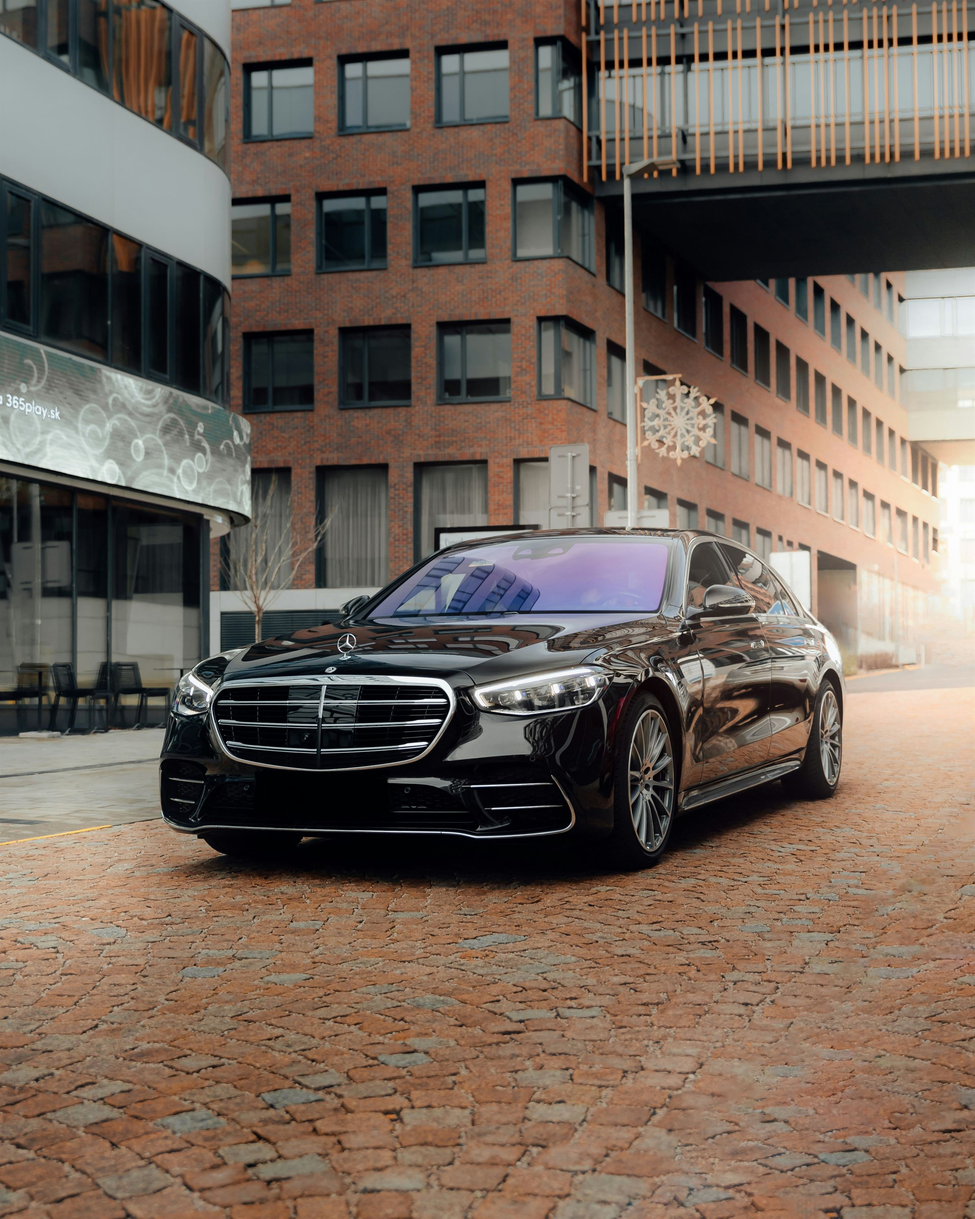
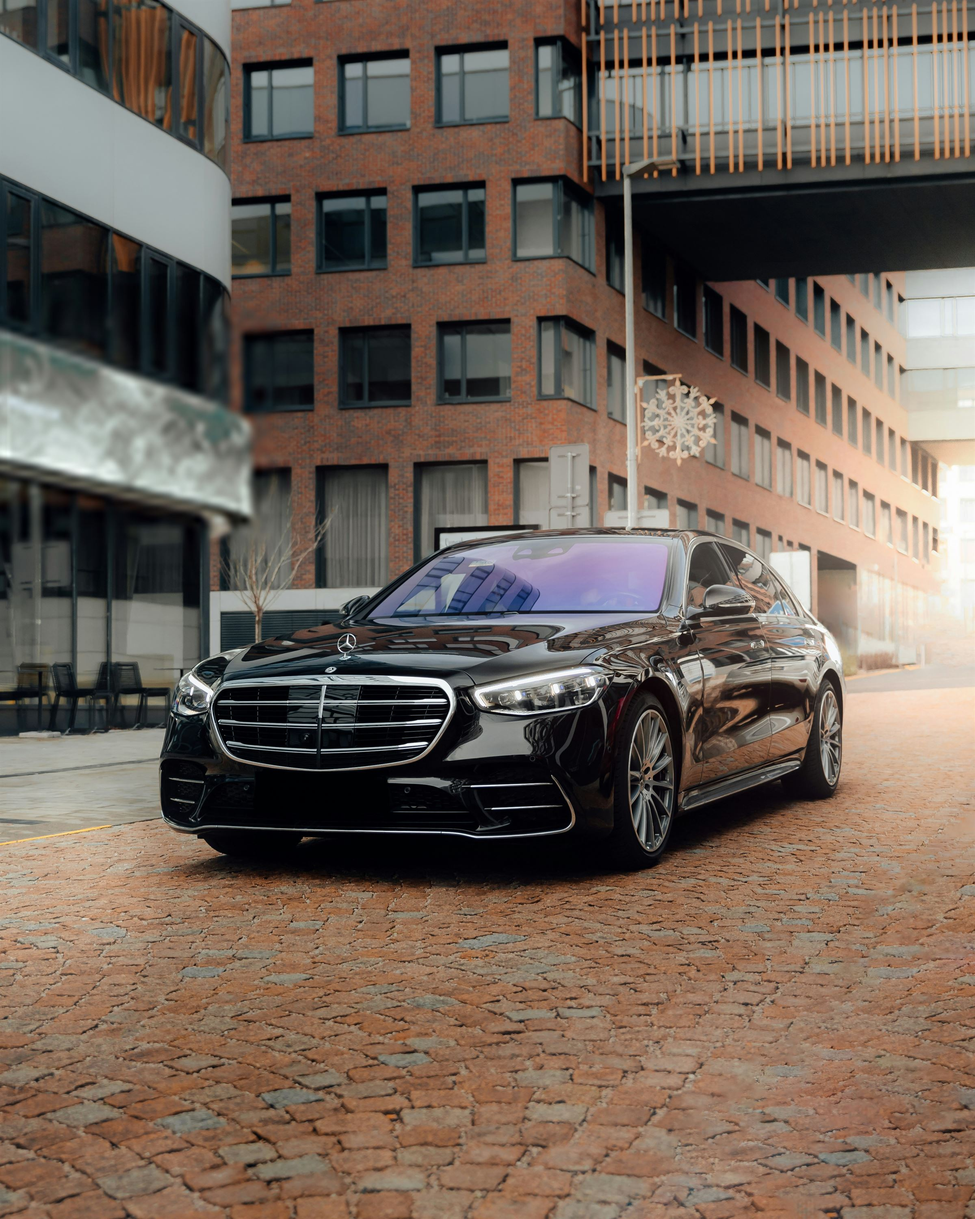
Hero : cadrage de la Classe S identique sur toutes les tailles d'écran, enseigne floutée
- Photo en vraie balise <picture> (WebP + JPEG), object-fit: cover, au lieu du fond CSS
- script.js : décalage vertical calculé selon la taille réelle de la carte, pour que le bas de la voiture arrive vers 97 % de sa hauteur (sur mobile et tablette, léger agrandissement ancré en haut) ; positions CSS de secours sans JavaScript
- Images web : enseigne « 365play.sk » floutée (l'original hero-classe-s.jpg reste intact)
- Contraste AA vérifié sur la photo de 360 à 1920 px

diff --git a/showroom.css b/showroom.css
@@ -680,16 +680,22 @@
   min-height:calc(100vh - 120px);           /* ≈ un écran : la voiture se voit en entier sous la recherche */
   min-height:calc(100svh - 120px);
 }
-.showroom .hero-card::before{
-  content:'';position:absolute;inset:-40px 0;z-index:-2;
-  background-image:url("images/hero-classe-s-2400.jpg");
-  background-image:image-set(url("images/hero-classe-s-2400.webp") type("image/webp"), url("images/hero-classe-s-2400.jpg") type("image/jpeg"));
-  background-size:cover;
-  background-position:center 45%;         /* bas de la voiture vers 85-94 % de la hauteur : moins de pavés */
-  background-repeat:no-repeat;
+/* Photo en vraie balise <picture> : object-fit cover, cadrage vertical calculé en JS (script.js)
+   pour que le bas de la voiture arrive vers 97 % de la hauteur de la carte, quelle que soit la taille d'écran.
+   Valeurs CSS ci-dessous = cadrage de secours si le script ne tourne pas. */
+.showroom .hero-photo{
+  position:absolute;left:0;right:0;top:-40px;bottom:-40px;z-index:-2;   /* 40 px de marge pour le parallax */
+  display:block;
   transform:translate3d(0, var(--hero-parallax, 0px), 0);
   will-change:transform;
 }
+.showroom .hero-photo img{
+  display:block;width:100%;height:100%;
+  object-fit:cover;
+  object-position:50% 60%;
+}
+@media(min-width:1281px){ .showroom .hero-photo img{object-position:50% 40%} }
+@media(min-width:1441px) and (min-height:1000px){ .showroom .hero-photo img{object-position:50% 22%} }
 /* Voile clair : opaque en haut, nettement allégé au centre pour laisser voir la Classe S
    (la lisibilité du texte est assurée par des voiles locaux derrière chaque ligne, plus bas) */
 .showroom .hero-card::after{
@@ -699,7 +705,7 @@
 /* Tablette et mobile : la photo est calée sur la hauteur de la carte, le cadrage vertical n'agit pas.
    Elle est légèrement agrandie et ancrée en haut pour que le bas de la voiture arrive vers 85 % */
 @media(max-width:900px){
-  .showroom .hero-card::before{background-size:auto 115%;background-position:center 0%}
+  .showroom .hero-photo img{height:115%;object-position:50% 0%}
 }
 /* Textes du hero : gris plus foncé, lisible même sur la partie la plus sombre de la photo voilée
    (fond le plus sombre possible ≈ #CCCCCC : #4A4A4A y fait 5,5:1) */
@@ -767,7 +773,7 @@
 }
 @media(prefers-reduced-motion:reduce){
   .showroom .hero-word{opacity:1;animation:none}
-  .showroom .hero-card::before{transform:none}
+  .showroom .hero-photo{transform:none}
 }
 @media(max-width:680px){
   .showroom .hero-rule{margin:18px auto 16px}

diff --git a/script.js b/script.js
@@ -370,3 +370,39 @@
   window.addEventListener('scroll', function(){ if(!ticking){ ticking = true; requestAnimationFrame(update); } }, {passive:true});
   update();
 })();
+
+// Accueil : cadrage de la photo du hero (Classe S) selon la taille réelle de la carte
+// La hauteur de la carte suit celle de l'écran : un pourcentage fixe ferait monter ou descendre la voiture.
+// On calcule donc le décalage pour que le bas de la voiture arrive vers 97 % de la hauteur de la carte.
+(function(){
+  var card = document.querySelector('.hero-card');
+  var img = card && card.querySelector('.hero-photo img');
+  if(!img) return;
+  var CAR_BOTTOM = 0.712;   // bas de la voiture (pneus et bouclier), en fraction de la hauteur de la photo
+  var TARGET = 0.97;        // position souhaitée du bas de la voiture, en fraction de la hauteur de la carte
+  function fit(){
+    var iw = img.naturalWidth || 2400, ih = img.naturalHeight || 3000;
+    var bw = img.clientWidth, bh = img.clientHeight;
+    if(!bw || !bh) return;
+    var s = Math.max(bw / iw, bh / ih);       // échelle de object-fit: cover
+    var rh = ih * s, slack = rh - bh;          // hauteur affichée et marge de recadrage verticale
+    var boxTop = img.offsetTop + img.parentNode.offsetTop;
+    if(slack < 2){
+      // Photo calée sur la hauteur (mobile, tablette) : on agrandit l'image juste assez,
+      // ancrée en haut, pour que le bas de la voiture arrive aussi vers 97 % de la carte.
+      var boxH = img.parentNode.clientHeight;
+      var k = (TARGET * card.clientHeight - boxTop) / (CAR_BOTTOM * boxH);
+      img.style.height = (Math.max(1, k) * 100).toFixed(2) + '%';
+      img.style.objectPosition = '50% 0%';
+      return;
+    }
+    img.style.height = '';   // -40 px : l'image déborde en haut (offsetTop ignore le décalage du parallax)
+    var offset = CAR_BOTTOM * rh - (TARGET * card.clientHeight - boxTop);
+    var p = Math.min(1, Math.max(0, offset / slack));
+    img.style.objectPosition = '50% ' + (p * 100).toFixed(2) + '%';
+  }
+  var t = null;
+  window.addEventListener('resize', function(){ clearTimeout(t); t = setTimeout(fit, 80); });
+  if(img.complete) fit(); else img.addEventListener('load', fit);
+  fit();
+})();

diff --git a/index.html b/index.html
@@ -20,7 +20,7 @@
 {"@context":"https://schema.org/","@type":"WebSite","name":"Prestigia","url":"https://prestigia.vip","description":"Chauffeur privé et limousine premium à Bruxelles, opérant en Europe.","inLanguage":"fr-BE"}
 </script>
 <link rel="stylesheet" href="styles.css?v=20261111-showroom">
-<link rel="stylesheet" href="showroom.css?v=20261112-progress">
+<link rel="stylesheet" href="showroom.css?v=20261112-cadrage">
 </head>
 <body class="showroom">
 
@@ -106,6 +106,11 @@
   <section class="hero" id="accueil">
     <div class="wrap">
       <div class="hero-card">
+        <!-- Photo de fond : cadrage calculé selon la taille de la carte (script.js), voir .hero-photo dans showroom.css -->
+        <picture class="hero-photo" aria-hidden="true">
+          <source srcset="images/hero-classe-s-2400.webp" type="image/webp">
+          <img src="images/hero-classe-s-2400.jpg" alt="" width="2400" height="3000" fetchpriority="high" decoding="async">
+        </picture>
         <div class="hero-text">
           <h1 class="eyebrow">Chauffeur privé et service sur-mesure à Bruxelles</h1>
           <p class="hero-hook"><span class="hero-word" style="--i:0">L'excellence</span> <span class="hero-word" style="--i:1">en</span> <span class="hero-word" style="--i:2">mouvement</span></p>
@@ -625,7 +630,7 @@
 <script src="js/search-index.js?v=20261111-search-2"></script>
 <script src="js/hero-search.js?v=20261111-search-3"></script>
 <script src="js/scroll-progress.js?v=20261112-progress"></script>
-<script src="script.js?v=20261112-classe-s"></script>
+<script src="script.js?v=20261112-cadrage"></script>
 
 </body>
 </html>
